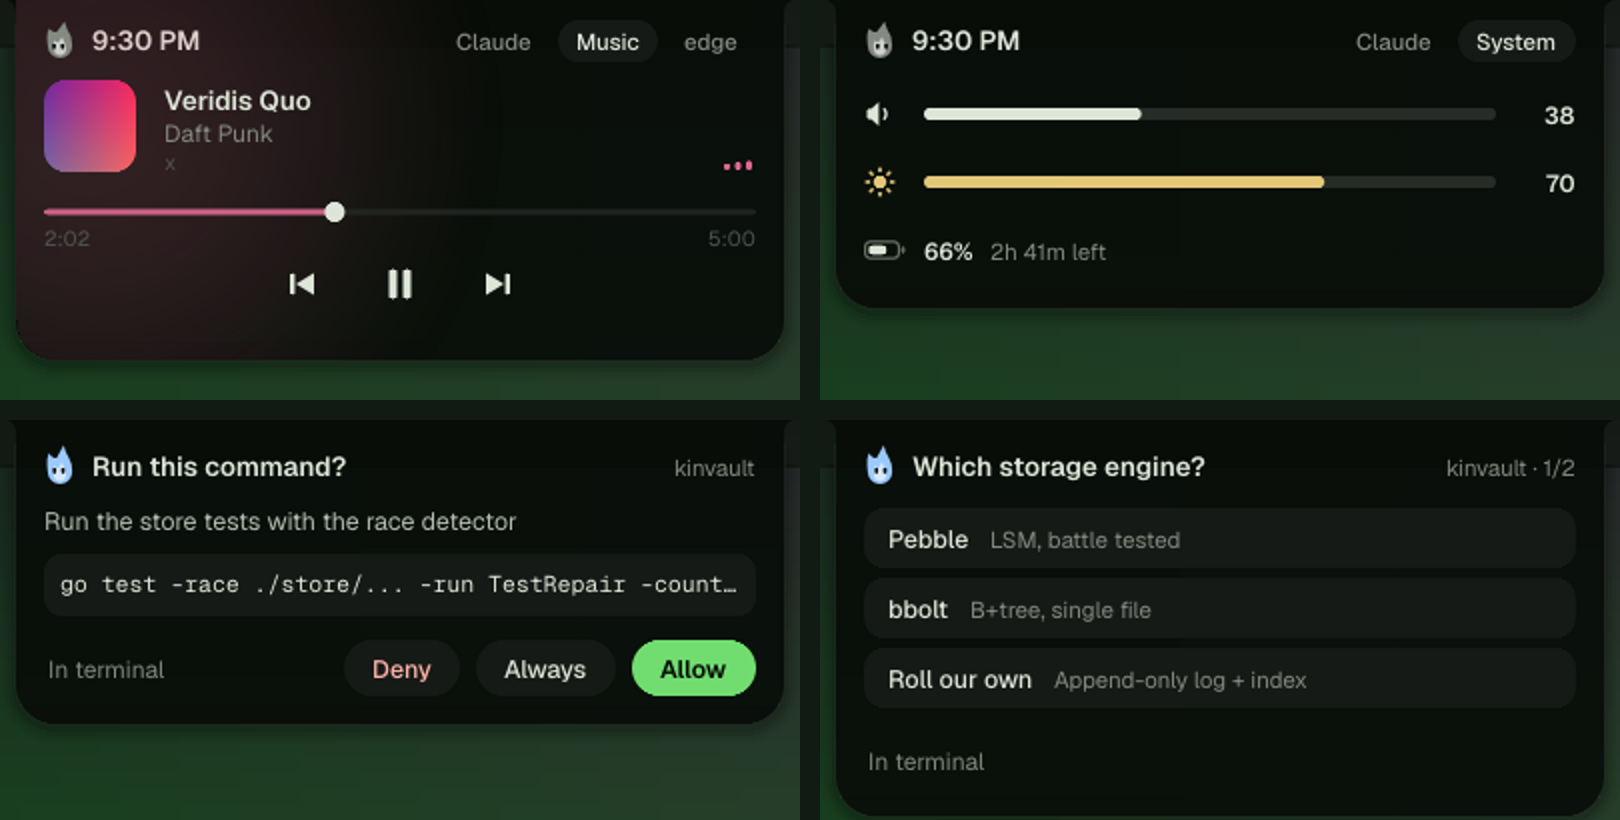
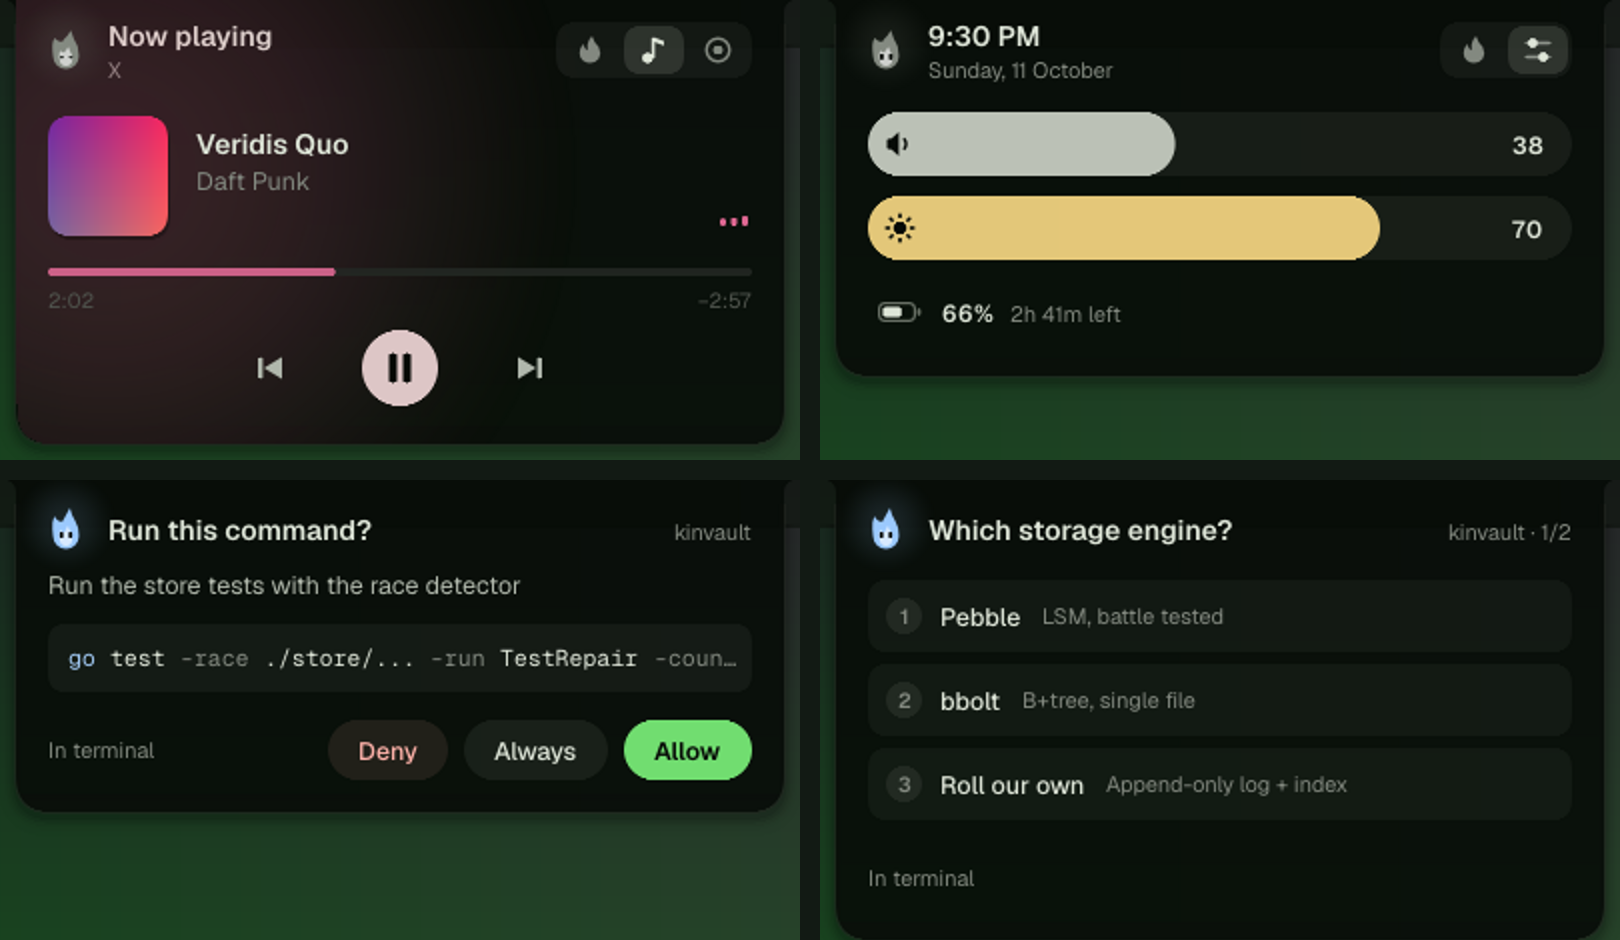
readme: the redesign, dragging, Ember's mind; docs renders; fold only styled text

diff --git a/island/fonts.go b/island/fonts.go
@@ -3,6 +3,7 @@ package island
 import (
 	"os"
 	"os/exec"
+	"strings"
 	"unicode"
 
 	"golang.org/x/image/font"
@@ -22,13 +23,35 @@ import (
 //     found once per Unicode block through fontconfig.
 
 // display returns s as it should be drawn. ASCII, the common case, is free.
+// Only "styled" characters fold; the ellipsis, the minus sign and the like
+// that Ember itself draws stay as they are.
 func display(s string) string {
+	ascii := true
 	for i := 0; i < len(s); i++ {
 		if s[i] >= 0x80 {
-			return norm.NFKC.String(s)
+			ascii = false
+			break
 		}
 	}
-	return s
+	if ascii {
+		return s
+	}
+	var b strings.Builder
+	for _, r := range s {
+		if styled(r) {
+			b.WriteString(norm.NFKC.String(string(r)))
+		} else {
+			b.WriteRune(r)
+		}
+	}
+	return b.String()
+}
+
+// styled: mathematical alphanumerics (𝙂𝘼𝙄𝙎𝙀), full-width forms, enclosed
+// letters (Ⓐ), letterlike symbols (ℍ), and the fi/fl ligatures.
+func styled(r rune) bool {
+	return (r >= 0x1D400 && r <= 0x1D7FF) || (r >= 0xFF01 && r <= 0xFF5E) || (r >= 0x2460 && r <= 0x24FF) ||
+		(r >= 0x2100 && r <= 0x214F) || (r >= 0xFB00 && r <= 0xFB06)
 }
 
 var (

diff --git a/island/fonts_test.go b/island/fonts_test.go
@@ -9,6 +9,9 @@ func TestDisplayFoldsStyledLetters(t *testing.T) {
 	if display("plain") != "plain" {
 		t.Fatal("ASCII passes through")
 	}
+	if display("Slow… −3 · ½") != "Slow… −3 · ½" {
+		t.Fatal("ordinary typography stays")
+	}
 }
 
 func TestFallbackDrawsMissingScripts(t *testing.T) {

diff --git a/README.md b/README.md
@@ -40,13 +40,47 @@ previous, play/pause and next. Scroll on it to change the volume. The card takes
 - Screenshots, with a preview. Click it to open the file.
 - A dot while your screen is being shared or recorded.
 
-**System page.** Volume and brightness sliders (click or scroll), mute, and the battery with time to empty or full.
+**System page.** Volume and brightness as Control Centre-style capsules you can drag, click or scroll, mute, and
+the battery with time to empty or full.
 
 **The clock**, when nothing else is going on. And [edge](https://github.com/Tejas242/edge)'s practice status, if
 you run it.
 
-Ember the flame has moods. It flickers while Claude works, looks up when it needs you, smiles and bounces when work is
-done, and breathes when idle. Its eyes follow your pointer. The colours follow Noctalia's wallpaper palette.
+**The card.** A header with Ember, the page's title and a live line of context ("2 working · 1 waiting"), and a
+switcher whose indicator glides between pages. Pages slide sideways and the card's height morphs. Hovers fade in on
+springs, and numbers roll when they change. Claude's sessions show a sparkline of the last ten minutes of activity. A
+request shows how long it will keep waiting as a line that drains along the card's bottom. Corners are continuous
+(superellipse) rather than circular arcs. Text in any script draws: styled Unicode letters fold to plain ones, and
+missing characters come from a system font found through fontconfig.
+
+## Alive
+
+Ember has a small mind. None of it is scripted animation. It is a handful of models running on real time:
+
+- **Affect.** Ember has an energy and a mood that relax toward a baseline, set by the time of day (peaking
+  mid-afternoon, lowest around 3 am), by what's running, and by whether you're at the machine. Events nudge them:
+  a tool call a little, a finished task brightens the mood, an error darkens it for a while. Energy sets how hard the
+  flame flickers, how fast it breathes and how open its eyes are. Mood tints its colour. It casts a soft light on the
+  island, brighter when it's lively.
+- **Life.** Blinks come at random, about fifteen a minute, sometimes doubled. Glances are random too, and the eyes are
+  never perfectly still. Ember looks at things as they appear: a note, the bubble beside the pill. When the desk has
+  been quiet for a while it gets drowsy, then falls asleep (eyes shut, z's rising), and wakes when something happens
+  or your pointer comes near.
+- **Presence.** Through the compositor's idle notifications it knows when you've stepped away. Sessions that finish or
+  ask for you meanwhile aren't shown to an empty room. When you come back, one line tells you what happened:
+  *While you were away: kinvault done · ember asked you*.
+- **Attention.** What the pill shows is scored, not hard-coded. A running session scores high. A new track scores
+  high and then fades as you get used to it. If you're already looking at that session's terminal, the pill shows
+  something else and Claude moves to the bubble. A choice holds until a rival clearly beats it, so the pill never
+  flickers between close calls. A request waiting on you, and anything you just pressed, always come first.
+- **Habits.** It learns which page you want when the card opens, per situation (Claude working with music on, say).
+  Older evidence fades, so a new habit takes over within a few opens.
+- **Judgement.** "Done" quotes the most informative sentence of Claude's reply (outcomes and numbers win over
+  preamble). Notes that arrive together merge ("Done · edge, ember"). A volume change hands a pending note back when
+  it's finished. A step running long shows its minutes. A session that went silent for half an hour (a killed Claude
+  never says Stop) settles to idle.
+
+The colours follow Noctalia's wallpaper palette.
 
 ## Install
 
@@ -107,6 +141,7 @@ layer-rule {
 | Click a moment | Screenshot: opens it. Volume, brightness, battery: opens the System page |
 | Click the bubble | Brings what the bubble shows (music beside Claude, say) to the pill |
 | Scroll on the pill | Switches what the pill shows |
+| Drag a slider or the seek bar | Follows your pointer, even past the island's edge. A seek happens on release |
 | Scroll on the card | Switches pages. On a slider or the music controls, changes the level |
 | Middle-click | Play / pause |
 | Right-click | Dismisses a moment or the card |
